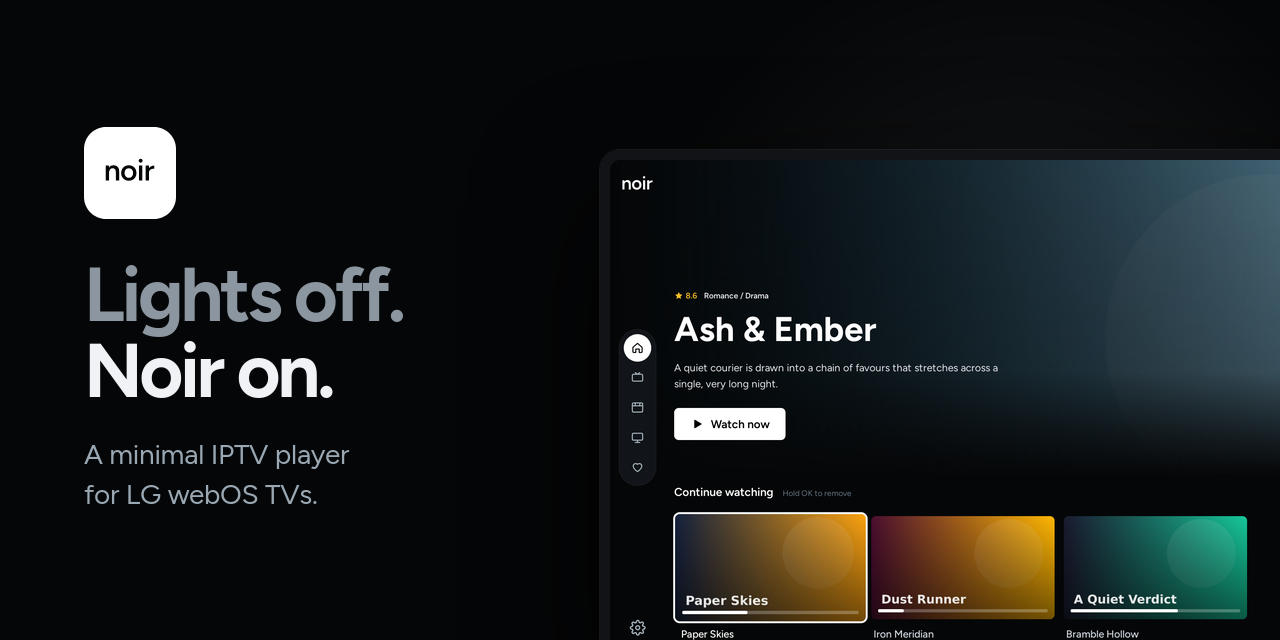
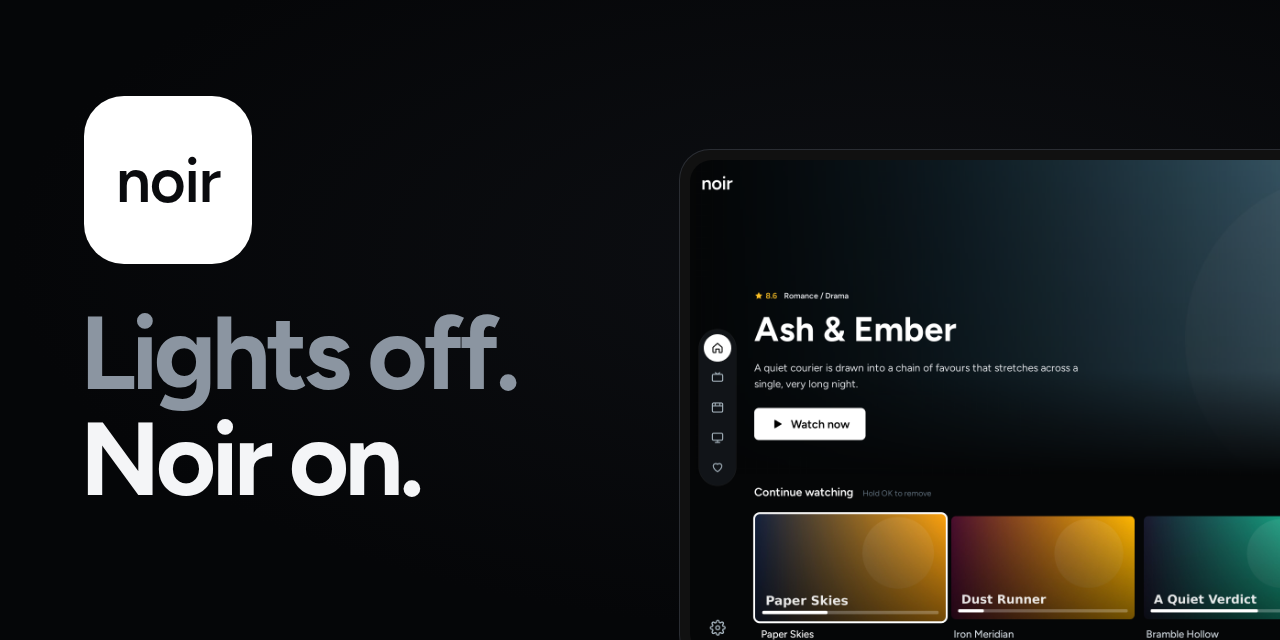
Redesign website: skewed hero, new sections, Astro Fonts API, tighter spacing

diff --git a/apps/website/src/styles/global.css b/apps/website/src/styles/global.css
@@ -1,4 +1,3 @@
-@import '@fontsource-variable/figtree';
 
 :root {
   --bg: #ffffff;
@@ -24,8 +23,8 @@
   --fs-legal: 13px;
 
   --container: 1240px;
-  --section-y: clamp(100px, 12vw, 180px);
-  --band-y: clamp(110px, 13vw, 190px);
+  --section-y: clamp(56px, 7vw, 96px);
+  --band-y: clamp(64px, 8vw, 112px);
   --radius-card: 28px;
   --radius-tv: clamp(10px, 1.4vw, 20px);
   --radius-tv-inner: clamp(5px, 0.7vw, 9px);
@@ -37,7 +36,7 @@
 * { margin: 0; }
 html { background: var(--bg); scroll-behavior: smooth; scroll-padding-top: 24px; }
 body {
-  font-family: 'Figtree Variable', system-ui, sans-serif;
+  font-family: var(--font-figtree);
   font-size: var(--fs-body);
   line-height: 1.6;
   color: var(--text);
@@ -59,7 +58,7 @@ button { font: inherit; }
 
 /* Header and footer */
 .site-header { display: flex; align-items: center; justify-content: space-between; padding: 28px 24px; max-width: var(--container); margin: 0 auto; }
-.wordmark { font-size: 28px; font-weight: 650; letter-spacing: -0.03em; text-decoration: none; color: var(--text); line-height: 1; }
+.wordmark { display: inline-flex; align-items: center; gap: 12px; font-size: 28px; font-weight: 650; letter-spacing: -0.03em; text-decoration: none; color: var(--text); line-height: 1; }
 .site-header nav { display: flex; gap: 32px; font-size: var(--fs-caption); }
 .site-header nav a { color: var(--muted); text-decoration: none; }
 .site-header nav a:hover { color: var(--text); }
@@ -76,17 +75,32 @@ button { font: inherit; }
 h1.hero-title { font-size: var(--fs-hero); font-weight: 700; letter-spacing: -0.045em; line-height: 1; }
 h1.hero-title .dim { color: var(--muted); }
 h1.hero-title .name { font-weight: 650; }
+h1.hero-title .lit { color: var(--text); }
 h2.title { font-size: var(--fs-h2); font-weight: 700; letter-spacing: -0.04em; line-height: 1.05; }
 .subline { margin: 18px auto 0; max-width: 560px; color: var(--muted); font-size: var(--fs-body); }
 .eyebrow { font-size: var(--fs-caption); font-weight: 600; letter-spacing: 0.08em; text-transform: uppercase; color: var(--muted); line-height: 1.2; }
 .block-gap { margin-top: clamp(48px, 6vw, 72px); }
 
+/* Hero: text on the left, a big skewed TV bleeding off the right edge */
+.stage { position: relative; overflow-x: clip; }
+.stage .hero { position: relative; min-height: calc(100lvh - 112px); justify-content: center; align-items: flex-start; text-align: left; padding-top: 0; padding-bottom: clamp(48px, 8vh, 100px); }
+.stage .hero > :not(.hero-art) { position: relative; z-index: 1; max-width: 480px; }
+.stage .hero .actions { justify-content: flex-start; }
+.stage .hero .subline { margin-left: 0; }
+.hero-art { position: absolute; top: 50%; left: 46%; width: min(62vw, 1000px); margin-top: calc(-0.28 * min(62vw, 1000px) - 40px); transform-origin: left center; transform: perspective(2200px) rotateY(-24deg) rotateX(7deg) rotateZ(1.5deg); pointer-events: none; }
+.hero-art .tv-frame { box-shadow: -30px 50px 90px -20px rgba(0, 0, 0, 0.45), 0 0 0 1px rgba(0, 0, 0, 0.08); }
+@media (max-width: 899px) {
+  .stage .hero { min-height: 0; align-items: center; text-align: center; padding-bottom: 0; }
+  .stage .hero > :not(.hero-art) { max-width: 520px; }
+  .stage .hero .actions { justify-content: center; }
+  .stage .hero .subline { margin-left: auto; }
+    .hero-art { position: relative; top: auto; left: auto; width: 100%; margin: 48px 0 0; transform-origin: center; transform: perspective(1400px) rotateY(-12deg) rotateX(4deg) scale(0.96); }
+}
 /* Hero */
 .hero { padding: clamp(56px, 8vw, 110px) 24px 0; max-width: var(--container); margin: 0 auto; text-align: center; display: flex; flex-direction: column; align-items: center; }
 .hero h1 { margin-top: 20px; }
 .hero .subline { margin-top: 24px; max-width: 520px; }
 .hero .actions { display: flex; flex-wrap: wrap; gap: 14px 28px; justify-content: center; align-items: center; margin-top: 36px; }
-.hero .tv { width: 100%; max-width: 1080px; margin-top: clamp(56px, 7vw, 88px); }
 .btn { display: inline-flex; align-items: center; min-height: 48px; padding: 0 26px; border-radius: 999px; background: var(--text); color: var(--on-dark); font-size: var(--fs-body); font-weight: 600; text-decoration: none; }
 .link { font-size: var(--fs-body); font-weight: 500; text-decoration: none; }
 .link:hover { text-decoration: underline; }
@@ -105,7 +119,16 @@ section { padding: var(--section-y) 0; }
 .fan .side.l { margin-right: -5%; }
 .fan .side.r { margin-left: -5%; }
 .fan .mid { width: 44%; z-index: 2; }
-.cols3 { display: grid; grid-template-columns: repeat(3, 1fr); gap: 32px; max-width: 1000px; margin: 56px auto 0; text-align: left; }
+.scenes { display: grid; grid-template-columns: repeat(3, 1fr); gap: 16px; width: min(1192px, 100% - 48px); margin: clamp(48px, 6vw, 72px) auto 0; text-align: left; }
+.scene { background: #050608; color: #fff; border-radius: var(--radius-card); overflow: hidden; display: flex; flex-direction: column; justify-content: space-between; }
+.scene.wide { grid-column: span 3; flex-direction: row; align-items: center; }
+.scene .text { padding: 32px 32px 24px; }
+.scene.wide .text { flex: none; width: 34%; padding: 32px; }
+.scene h3 { font-size: var(--fs-card); font-weight: 700; letter-spacing: -0.025em; line-height: 1.15; }
+.scene p { margin-top: 10px; color: rgba(255,255,255,0.6); font-size: var(--fs-body); }
+.scene .shot { background: transparent; }
+.scene.wide .shot { flex: 1; align-self: stretch; -webkit-mask-image: linear-gradient(90deg, transparent, #000 14%); mask-image: linear-gradient(90deg, transparent, #000 14%); }
+.cols3 { display: grid; grid-template-columns: repeat(3, 1fr); gap: 32px; width: min(1192px, 100% - 48px); margin: 56px auto 0; padding: 0; text-align: left; }
 .cols3 h3 { font-size: var(--fs-small-title); font-weight: 700; line-height: 1.3; }
 .cols3 p { margin-top: 6px; font-size: var(--fs-caption); line-height: 1.55; color: var(--muted); }
 
@@ -115,8 +138,8 @@ section { padding: var(--section-y) 0; }
 
 /* Player band */
 #player { background: linear-gradient(180deg, var(--bg) 0%, var(--surface) 18%, var(--surface) 82%, var(--bg) 100%); padding: var(--band-y) 0; }
-.bar-crop { max-width: 1080px; margin: clamp(48px, 6vw, 72px) auto 0; border-radius: 22px; box-shadow: var(--shadow-tv); outline: 1px solid var(--hairline); outline-offset: -1px; }
-.tiles { display: grid; grid-template-columns: repeat(3, 1fr); gap: 16px; max-width: 1080px; margin: 16px auto 0; text-align: left; }
+.bar-crop { width: min(1192px, 100% - 48px); margin: clamp(48px, 6vw, 72px) auto 0; border-radius: 22px; box-shadow: var(--shadow-tv); outline: 1px solid var(--hairline); outline-offset: -1px; }
+.tiles { display: grid; grid-template-columns: repeat(3, 1fr); gap: 16px; width: min(1192px, 100% - 48px); margin: 16px auto 0; text-align: left; }
 .tile { background: var(--bg); border-radius: var(--radius-card); box-shadow: inset 0 0 0 1px var(--hairline-soft); padding: clamp(28px, 3vw, 40px); display: flex; flex-direction: column; justify-content: space-between; gap: 40px; min-height: 260px; }
 .tile.wide { grid-column: span 2; min-height: 300px; }
 .tile.tall { min-height: 300px; }
@@ -129,7 +152,7 @@ section { padding: var(--section-y) 0; }
 .tile p, .card p { margin-top: 10px; color: var(--muted); font-size: var(--fs-body); }
 
 /* Detail cards */
-.cards { display: grid; grid-template-columns: repeat(3, 1fr); gap: 20px; max-width: var(--container); margin: clamp(48px, 6vw, 72px) auto 0; padding: 0 24px; text-align: left; }
+.cards { display: grid; grid-template-columns: repeat(3, 1fr); gap: 20px; width: min(1192px, 100% - 48px); margin: clamp(48px, 6vw, 72px) auto 0; text-align: left; }
 .card { background: var(--surface); border-radius: var(--radius-card); box-shadow: inset 0 0 0 1px var(--hairline-soft); padding: 12px; }
 .card .frame { aspect-ratio: 4 / 3; border-radius: 18px; outline: 1px solid var(--crop-outline); outline-offset: -1px; background: var(--bezel); }
 .card .text { padding: 24px 16px 20px; display: flex; flex-direction: column; gap: 10px; }
@@ -141,12 +164,22 @@ section { padding: var(--section-y) 0; }
 .pill.on { background: var(--text); color: var(--on-dark); box-shadow: none; }
 
 /* Setup */
-.steps { list-style: none; padding: 0; display: grid; grid-template-columns: repeat(3, 1fr); gap: 40px 32px; max-width: 1000px; margin: clamp(48px, 6vw, 72px) auto 0; text-align: center; }
-.steps li { display: flex; flex-direction: column; align-items: center; gap: 12px; }
-.steps .num { width: 48px; height: 48px; border-radius: 50%; display: flex; align-items: center; justify-content: center; font-size: var(--fs-body); font-weight: 700; box-shadow: inset 0 0 0 1px rgba(0, 0, 0, 0.2); }
-.steps .num.last { background: var(--text); color: var(--on-dark); box-shadow: none; }
-.steps h3 { font-size: var(--fs-small-title); font-weight: 700; line-height: 1.3; }
-.steps p { max-width: 280px; font-size: var(--fs-caption); line-height: 1.55; color: var(--muted); }
+.sofa { list-style: none; margin: clamp(48px, 6vw, 72px) auto 0; padding: 0; width: min(1192px, 100% - 48px); display: grid; grid-template-columns: repeat(3, 1fr); gap: 32px; text-align: left; }
+.sofa li { display: flex; flex-direction: column; gap: 12px; }
+.sofa .visual { position: relative; aspect-ratio: 16 / 10; border-radius: 18px; overflow: hidden; background: #050608; box-shadow: var(--shadow-tv); display: flex; align-items: center; justify-content: center; }
+.sofa .vis { position: absolute; inset: 0; width: 100%; height: 100%; aspect-ratio: auto !important; background: transparent; }
+.sofa .store-tile { color: #fff; display: flex; align-items: center; gap: 16px; padding: 14px 16px; border-radius: 20px; background: #1a1c22; }
+.sofa .store-tile .name { display: flex; flex-direction: column; font-weight: 700; font-size: 18px; }
+.sofa .store-tile small { font-weight: 400; font-size: 13px; color: rgba(255, 255, 255, 0.55); }
+.sofa .store-tile .get { margin-left: 12px; padding: 7px 20px; border-radius: 999px; background: #fff; color: #050608; font-weight: 700; font-size: 14px; }
+.app-icon.small { width: 56px; height: 56px; border-radius: 14px; font-size: 18px; box-shadow: none; }
+.sofa .rail { position: relative; display: flex; align-items: center; margin-top: 12px; }
+.sofa .rail::before { content: ''; position: absolute; left: 0; right: -32px; top: 50%; height: 1px; background: var(--hairline); }
+.sofa li:last-child .rail::before { right: 0; background: linear-gradient(90deg, var(--hairline), transparent); }
+.sofa .dot { position: relative; width: 36px; height: 36px; border-radius: 50%; background: var(--bg); box-shadow: inset 0 0 0 1px rgba(0, 0, 0, 0.25); display: flex; align-items: center; justify-content: center; font-weight: 700; font-size: 15px; }
+.sofa .dot.last { background: var(--text); color: var(--on-dark); box-shadow: 0 0 0 6px rgba(0, 0, 0, 0.07); }
+.sofa h3 { font-size: var(--fs-card); font-weight: 700; letter-spacing: -0.025em; line-height: 1.15; margin-top: 8px; }
+.sofa p { color: var(--muted); font-size: var(--fs-body); }
 
 /* FAQ */
 .faq { max-width: 760px; margin: clamp(48px, 6vw, 72px) auto 0; padding: 0 24px; text-align: left; }
@@ -154,13 +187,13 @@ section { padding: var(--section-y) 0; }
 .faq details:last-child { border-bottom: 1px solid var(--hairline); }
 .faq summary { list-style: none; display: flex; justify-content: space-between; align-items: center; gap: 24px; padding: 24px 0; cursor: pointer; font-size: var(--fs-faq); font-weight: 600; line-height: 1.3; }
 .faq summary::-webkit-details-marker { display: none; }
-.faq summary .plus { font-size: 26px; font-weight: 300; color: var(--muted); line-height: 1; transition: transform 250ms ease; }
+.faq summary .plus { font-size: 26px; font-weight: 300; color: var(--muted); line-height: 1; }
 .faq details[open] summary .plus { transform: rotate(45deg); }
 .faq .answer { max-width: 640px; padding-bottom: 24px; color: var(--muted); }
 
 /* Coming soon */
 #get { background: linear-gradient(180deg, var(--bg) 0%, var(--surface) 55%, var(--bg) 100%); padding: 0; }
-#get .inner { max-width: var(--container); margin: 0 auto; padding: clamp(90px, 11vw, 160px) 24px clamp(110px, 13vw, 190px); display: flex; flex-direction: column; align-items: center; text-align: center; gap: 24px; }
+#get .inner { max-width: var(--container); margin: 0 auto; padding: clamp(64px, 8vw, 110px) 24px clamp(72px, 9vw, 120px); display: flex; flex-direction: column; align-items: center; text-align: center; gap: 24px; }
 .app-icon { width: 112px; height: 112px; border-radius: 26px; background: #fff; box-shadow: var(--shadow-icon); display: flex; align-items: center; justify-content: center; font-size: 36px; font-weight: 600; letter-spacing: -0.02em; color: var(--icon-ink); }
 #get h2 { margin-top: 8px; }
 #get p { max-width: 520px; color: var(--muted); }
@@ -184,18 +217,7 @@ section { padding: var(--section-y) 0; }
 .prose a { color: var(--text); }
 
 /* Motion */
-@keyframes rise { from { opacity: 0; transform: translateY(24px); } to { opacity: 1; transform: none; } }
-.load { animation: rise 900ms cubic-bezier(0.2, 0.7, 0.2, 1) both; }
-.load.d1 { animation-delay: 80ms; }
-.load.d2 { animation-delay: 160ms; }
-.load.d3 { animation-delay: 240ms; }
-.load.d4 { animation-delay: 320ms; }
-@supports (animation-timeline: view()) {
-  .reveal { animation: rise linear both; animation-timeline: view(); animation-range: entry 0% cover 28%; }
-}
 @media (prefers-reduced-motion: reduce) {
-  .load, .reveal { animation: none; }
-  .faq summary .plus { transition: none; }
   html { scroll-behavior: auto; }
 }
 
@@ -204,11 +226,21 @@ section { padding: var(--section-y) 0; }
   .site-header nav { display: none; }
   .fan { flex-direction: column; align-items: center; gap: 20px; padding: 0 24px; }
   .fan .side, .fan .mid { width: 100%; margin: 0; }
-  .cols3, .cards, .steps { grid-template-columns: 1fr; }
-  .tiles { grid-template-columns: repeat(2, 1fr); padding: 0 24px; }
-  .bar-crop { margin-left: 24px; margin-right: 24px; }
+  .cols3, .cards, .sofa, .scenes { grid-template-columns: 1fr; }
+  .scene.wide { grid-column: auto; flex-direction: column; align-items: stretch; }
+  .scene.wide .text { width: auto; }
+  .tiles { grid-template-columns: repeat(2, 1fr); }
 }
 @media (max-width: 560px) {
   .tiles { grid-template-columns: 1fr; }
   .tile.wide { grid-column: auto; }
 }
+
+/* Balanced line breaks: no single-word last lines */
+h1, h2, h3, summary { text-wrap: balance; }
+p, li, .answer { text-wrap: pretty; }
+.subline, .cols3 p, .scene p, .card p, .tile p, .sofa p { text-wrap: balance; }
+
+.app-icon.nav-icon { width: 56px; height: 56px; border-radius: 14px; font-size: 19px; font-weight: 650; letter-spacing: -0.02em; box-shadow: 0 0 0 1px rgba(0, 0, 0, 0.1); }
+
+@media (max-width: 900px) { .sofa .rail::before { right: 0; } }
